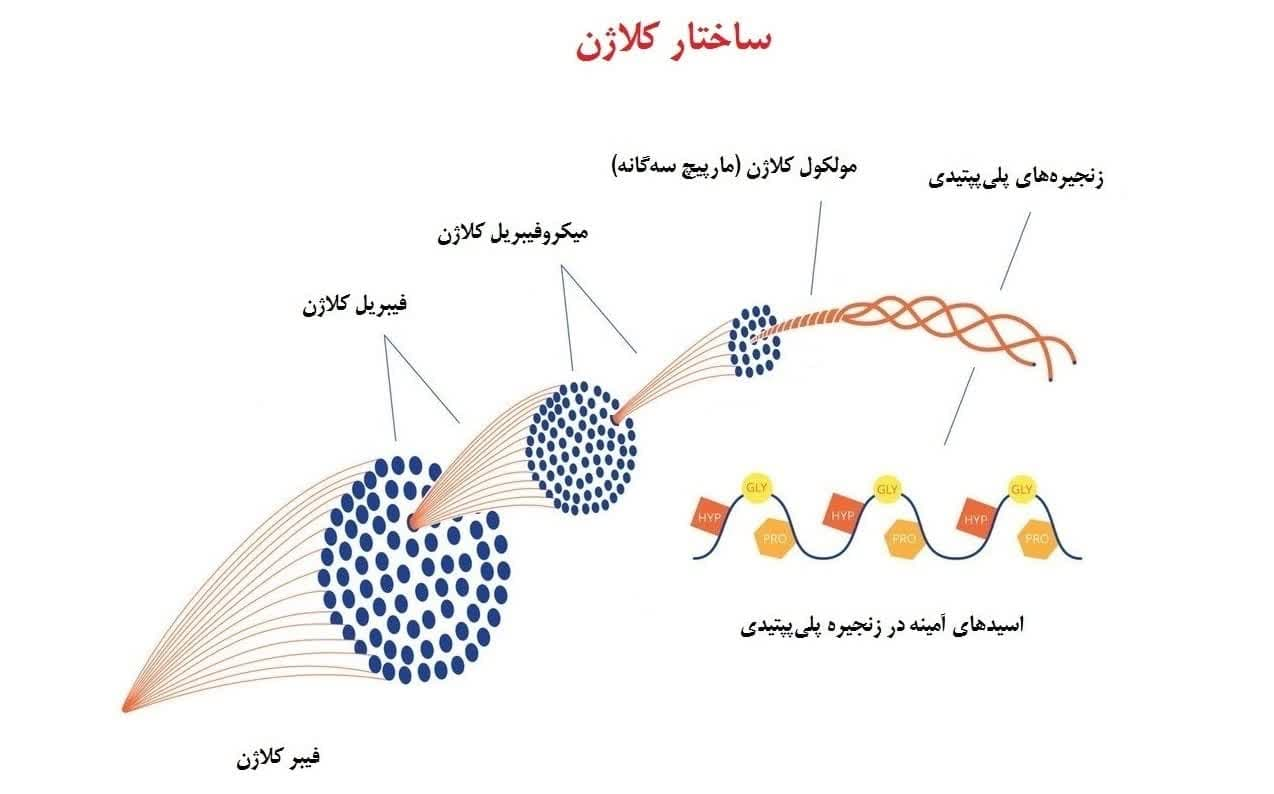
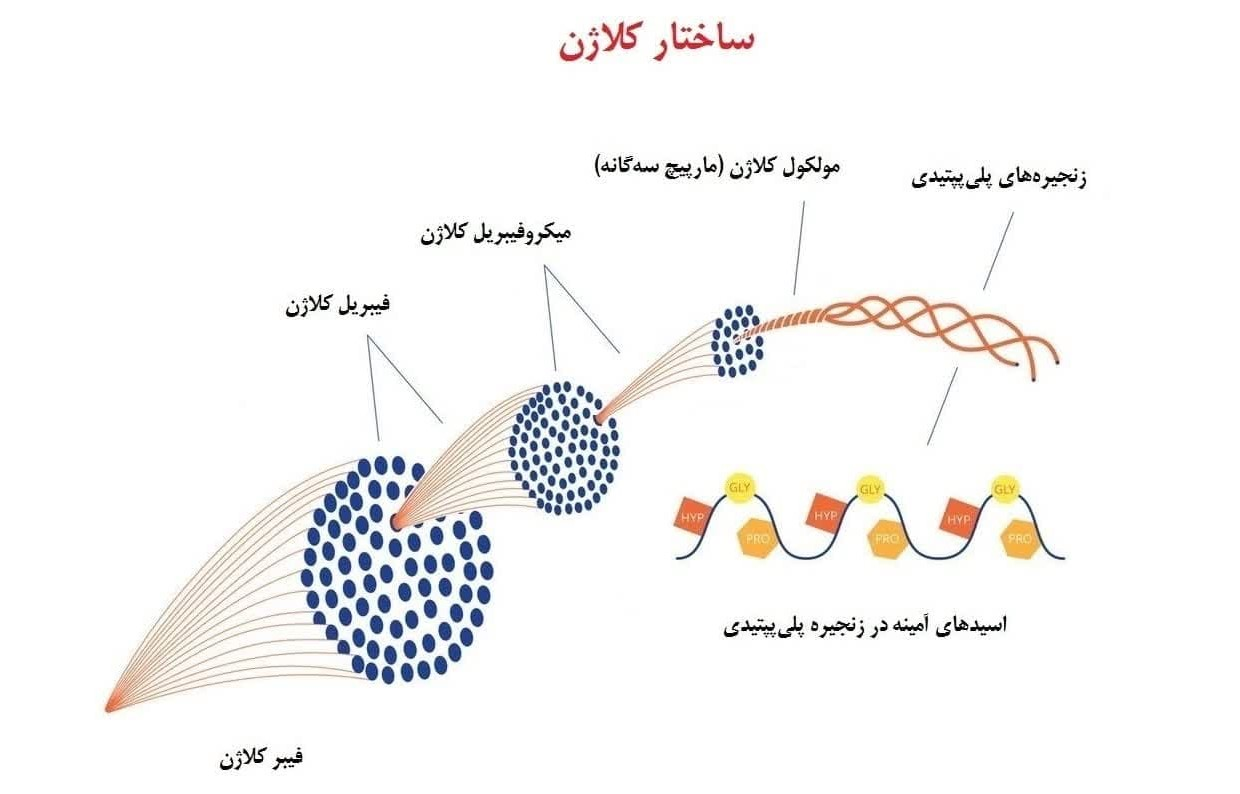
.

diff --git a/pages/papers.html b/pages/papers.html
@@ -43,7 +43,7 @@
     <div class="container">
         <div class="box">
             <div class="image">
-                <img src="../img/papers/pic1.jpg" alt="">
+                <img src="../img/papers/pic1.jpg" class="img1">
             </div>
             <div class="title">
                 <p>کلاژن چیست؟</p>

diff --git a/styles/solma.css b/styles/solma.css
@@ -1120,10 +1120,10 @@ body{
     .adress_order{
         position: relative;
         width: 100%;
-        left: -5%;
+        left: 0%;
         @media(max-width: 431px){
             position: relative;
-            left: -15%;
+            left: -2%;
         }
     }
     .social_media{

diff --git a/styles/articles/article2.css b/styles/articles/article2.css
@@ -236,10 +236,12 @@ header{
     display: grid;
     justify-items: center;
     align-items: center;
+    position: relative;
+    top: -5%;
 }
 .image{
     width: 80%;
-    height: 80%;
+    height: 90%;
 }
 .image img{
     width: 100%;

diff --git a/styles/paper.css b/styles/paper.css
@@ -189,6 +189,10 @@ header{
     width: 80%;
     height: 100%;
 }
+.image .img1{
+    width: 98%;
+    height: 98%;
+}
 .image .img3{
     height: 90%;
 }
